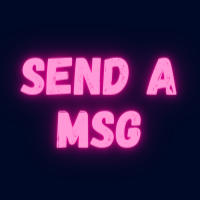
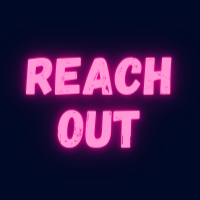
Feat: reset msgme page back to links

Changed region(s): [[0.09, 0.24, 0.93, 0.78]]

diff --git a/client/components/content/msgme-content.js b/client/components/content/msgme-content.js
@@ -1,62 +1,34 @@
 /* eslint-disable no-alert */
-import React, {useState} from 'react'
-import {Box, Button} from 'rebass'
-import {Label, Input, Textarea} from '@rebass/forms'
-import axios from 'axios'
+import React from 'react'
+import {Box, Flex, Image} from 'rebass'
 
 const MsgMeContent = () => {
-  const [email, setEmail] = useState('')
-  const [message, setMessage] = useState('')
-  const [sent, setSent] = useState(false)
-
-  const submitRequest = async e => {
-    e.preventDefault()
-    console.log({email, message})
-    try {
-      const response = await axios.post('/msgs', {
-        email,
-        message
-      })
-      console.log('response', response)
-
-      if (response.status === 200) {
-        alert('Message Sent.')
-        setSent(true)
-        // e.resetForm()
-      } else if (response.status === 500) {
-        alert('Message failed to send.')
-      }
-    } catch (error) {
-      console.log('error with axios', error)
-    }
-  }
-
   return (
-    <Box as="form" onSubmit={submitRequest}>
-      <Box>
-        <Label htmlFor="email">Email</Label>
-        <Input
-          id="email"
-          name="email"
-          type="email"
-          placeholder="jane@example.com"
-          onChange={e => setEmail(e.target.value)}
-          value={email}
-        />
+    <Flex justifyContent="space-evenly">
+      <Box justifyContent="center">
+        <a href="mailto:info@kali.nyc">
+          <Image src="images/email.png" />
+        </a>
       </Box>
-      <Box>
-        <Label htmlFor="message">Message</Label>
-        <Textarea
-          id="message"
-          name="message"
-          onChange={e => setMessage(e.target.value)}
-          value={message}
-        />
+      <Box justifyContent="center">
+        <a
+          href="https://www.linkedin.com/in/kali-nfn/"
+          target="_blank"
+          rel="noopener noreferrer"
+        >
+          <Image src="images/linkedin.png" />
+        </a>
       </Box>
-      <Box>
-        <Button>Submit</Button>
+      <Box justifyContent="center">
+        <a
+          href="https://github.com/SlowGen"
+          target="_blank"
+          rel="noopener noreferrer"
+        >
+          <Image src="images/github.png" />
+        </a>
       </Box>
-    </Box>
+    </Flex>
   )
 }
 

diff --git a/client/components/content/msgme-content-form.js b/client/components/content/msgme-content-form.js
@@ -1,0 +1,61 @@
+/* eslint-disable no-alert */
+import React, {useState} from 'react'
+import {Box, Button} from 'rebass'
+import {Label, Input, Textarea} from '@rebass/forms'
+import axios from 'axios'
+
+const MsgMeContent = () => {
+  const [email, setEmail] = useState('')
+  const [message, setMessage] = useState('')
+
+  const submitRequest = async e => {
+    e.preventDefault()
+    console.log({email, message})
+    try {
+      const response = await axios.post('/msgs', {
+        email,
+        message
+      })
+      console.log('response', response)
+
+      if (response.status === 200) {
+        alert('Message Sent.')
+        // e.resetForm()
+      } else if (response.status === 500) {
+        alert('Message failed to send.')
+      }
+    } catch (error) {
+      console.log('error with axios', error)
+    }
+  }
+
+  return (
+    <Box as="form" onSubmit={submitRequest}>
+      <Box>
+        <Label htmlFor="email">Email</Label>
+        <Input
+          id="email"
+          name="email"
+          type="email"
+          placeholder="jane@example.com"
+          onChange={e => setEmail(e.target.value)}
+          value={email}
+        />
+      </Box>
+      <Box>
+        <Label htmlFor="message">Message</Label>
+        <Textarea
+          id="message"
+          name="message"
+          onChange={e => setMessage(e.target.value)}
+          value={message}
+        />
+      </Box>
+      <Box>
+        <Button>Submit</Button>
+      </Box>
+    </Box>
+  )
+}
+
+export default MsgMeContent
